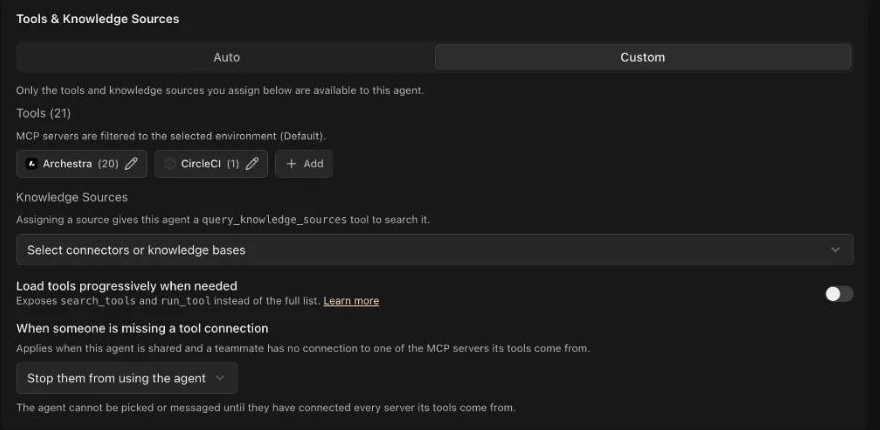
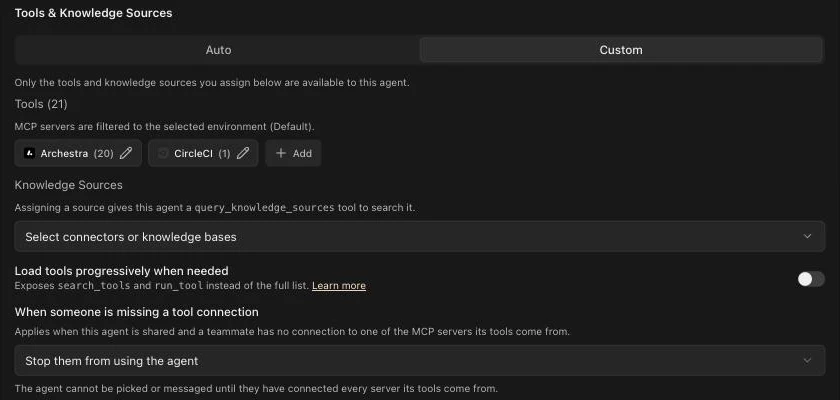
fix(agents): make the missing-connection dropdown full width

diff --git a/platform/frontend/src/components/agent-dialog.tsx b/platform/frontend/src/components/agent-dialog.tsx
@@ -2864,7 +2864,10 @@ function AgentDialogBody({
                             )
                           }
                         >
-                          <SelectTrigger id="missing-credential-behavior">
+                          <SelectTrigger
+                            id="missing-credential-behavior"
+                            className="w-full"
+                          >
                             <SelectValue />
                           </SelectTrigger>
                           <SelectContent>
